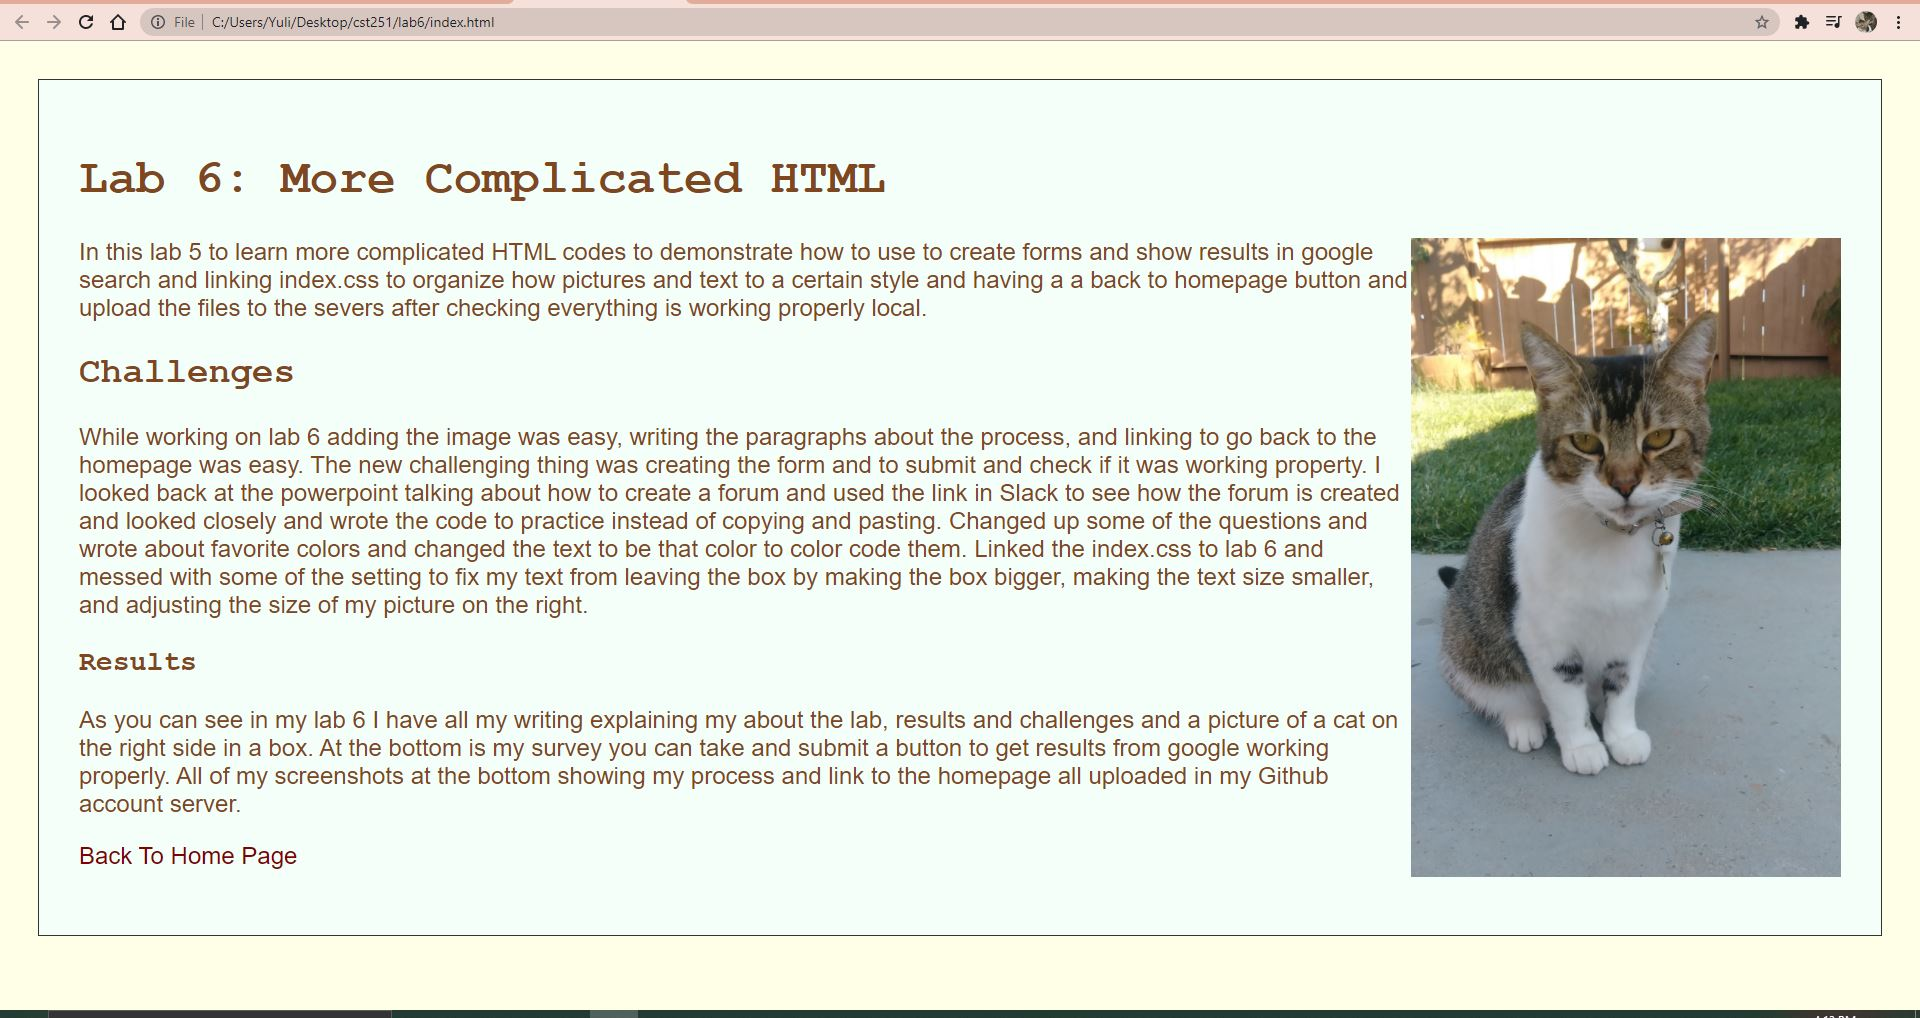
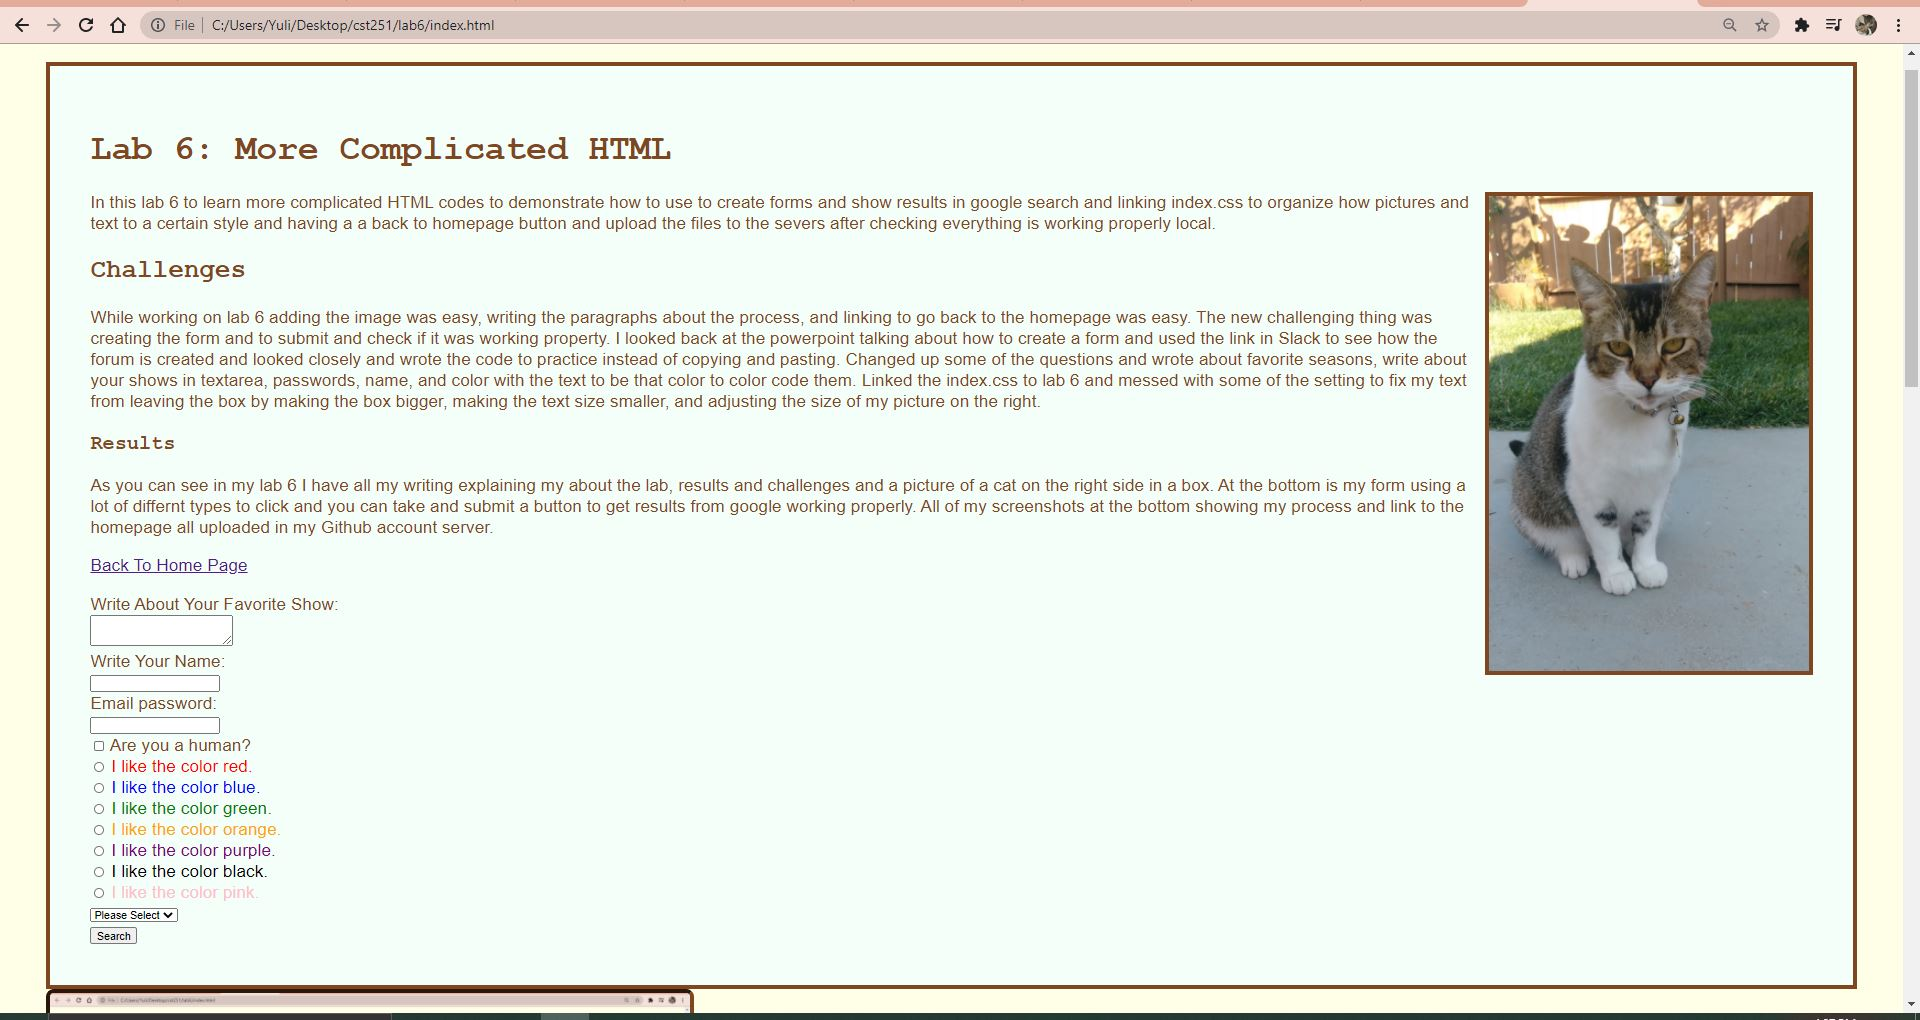
added lab7 and fixed lab 6

Changed region(s): [[0.0, 0.0, 1.0, 1.0]]

diff --git a/lab6/index.html b/lab6/index.html
@@ -6,16 +6,16 @@
 	<link rel="stylesheet" type="text/css" href="css/index.css">
 </head>
 <body>
-		<div id="content">
-			<h1 style="color:#7e4720;">Lab 6: More Complicated HTML</h1>
-			<img src="img/kirby.jpg">
-			<p style="color:#7e4720;">In this lab 6 to learn more complicated HTML codes
+	<div id="content">
+			<h1>Lab 6: More Complicated HTML</h1>
+			<img id="cat" src="img/kirby.jpg">
+			<p>In this lab 6 to learn more complicated HTML codes
 				to demonstrate how to use to create forms and show results in google search
 				and linking index.css to organize how pictures and text to a certain style
 				and having a a back to homepage button and upload the files to the severs
 				after checking everything is working properly local.</p>
-			<h2 style="color:#7e4720;">Challenges</h2>
-			<p style="color:#7e4720;">While working on lab 6 adding the image was easy,
+			<h2>Challenges</h2>
+			<p>While working on lab 6 adding the image was easy,
 				writing the paragraphs about the process, and linking to go back to the
 				homepage was easy.  The new challenging thing was creating the form and
 				to submit and check if it was working property.  I looked back at the
@@ -27,56 +27,57 @@
 				color code them. Linked the index.css to lab 6 and messed with some of the setting
 				to fix my text from leaving the box by making the box bigger, making the text size
 				smaller, and adjusting the size of my picture on the right.</p>
-			<h3 style="color:#7e4720;">Results</h3>
-			<p style="color:#7e4720;">As you can see in my lab 6 I have all my writing
+			<h3>Results</h3>
+			<p>As you can see in my lab 6 I have all my writing
 				explaining my about the lab, results and challenges and a picture of a cat
 				on the right side in a box.  At the bottom is my form using a lot of differnt types to click and you can take and
 				submit a button to get results from google working properly.  All of my
 				screenshots at the bottom showing my process and link to the homepage all
 				uploaded in my Github account server.</p>
 			<p><a href="../index.html">Back To Home Page</a>
-		</div>
 
-	<form action="https://www.google.com/search" method="GET" target="_blank">
-		Write About Your Favorite Show: <br>
- 		<textarea name="write-about-your-favorite-story"></textarea><br>
- 		Write Your Name:<br>
- 		<input type="input" name="q"/><br>
-			Email password:<br>
-		<input type="password" name="email-password"/><br>
- 		<label><input type="checkbox" name="living"/>
-	 		Are you a human?</label><br>
-		<label style="color:red;"><input type="radio" name="color" value="red">
-			I like the color red.</label><br>
-		<label style="color:blue;"><input type="radio" name="color" value="blue">
-			I like the color blue.</label><br>
-		<label style="color:green;"><input type="radio" name="color" value="green">
-			I like the color green.</label><br>
-		<label style="color:orange;"><input type="radio" name="color" value="orange">
-			I like the color orange.</label><br>
-		<label style="color:purple;"><input type="radio" name="color" value="purple">
-			I like the color purple.</label><br>
-		<label style="color:black;"><input type="radio" name="color" value="black">
-			I like the color black.</label><br>
-		<label style="color:pink;"><input type="radio" name="color" value="pink">
-			I like the color pink.</label><br>
-		<select name="h1">
-			<option disabled selected>Please Select</option>
-			<option value="sum">Summer</option>
-			<option vaule="aut">Autumn</option>
-			<option vaule="win">Winter</option>
-			<option vaule="spr">Spring</option>
-		</select><br>
-		<input type="submit" value="Search">
-	</form>
+		<form action="https://www.google.com/search" method="GET" target="_blank">
+			Write About Your Favorite Show: <br>
+	 		<textarea name="write-about-your-favorite-story"></textarea><br>
+	 		Write Your Name:<br>
+	 		<input type="input" name="q"/><br>
+				Email password:<br>
+			<input type="password" name="email-password"/><br>
+	 		<label><input type="checkbox" name="living"/>
+		 		Are you a human?</label><br>
+			<label style="color:red;"><input type="radio" name="color" value="red">
+				I like the color red.</label><br>
+			<label style="color:blue;"><input type="radio" name="color" value="blue">
+				I like the color blue.</label><br>
+			<label style="color:green;"><input type="radio" name="color" value="green">
+				I like the color green.</label><br>
+			<label style="color:orange;"><input type="radio" name="color" value="orange">
+				I like the color orange.</label><br>
+			<label style="color:purple;"><input type="radio" name="color" value="purple">
+				I like the color purple.</label><br>
+			<label style="color:black;"><input type="radio" name="color" value="black">
+				I like the color black.</label><br>
+			<label style="color:pink;"><input type="radio" name="color" value="pink">
+				I like the color pink.</label><br>
+			<select name="h1">
+				<option disabled selected>Please Select</option>
+				<option value="sum">Summer</option>
+				<option vaule="aut">Autumn</option>
+				<option vaule="win">Winter</option>
+				<option vaule="spr">Spring</option>
+			</select><br>
+			<input type="submit" value="Search">
+		</form>
+  </div>
 
-	<img src="img/browser.jpg" width="400px">
-		<figcaption style="color:#7e4720;">Lab 6 HTML File On My Browser</figcaption>
-	<img src="img/lab6codes.jpg" width="300px">
-		<figcaption style="color:#7e4720;">Lab 6 HTML Codes</figcaption>
-	<img src="img/local.jpg" width="400px">
-		<figcaption style="color:#7e4720;">Lab 6 Working On Local</figcaption>
-	<img src="img/lab6sever.jpg" width="400px">
-		<figcaption style="color:#7e4720;">Lab 6 On Severs</figcaption>
+<img id="screenshot" src="img/browser.jpg">
+	<figcaption id="center">Lab 6 HTML File On My Browser</figcaption>
+<img id="screenshot" src="img/lab6codes.jpg">
+	<figcaption id="center">Lab 6 HTML Codes</figcaption>
+<img id="screenshot" src="img/local.jpg">
+	<figcaption id="center">Lab 6 Working On Local</figcaption>
+<img id="screenshot" src="img/lab6sever.jpg">
+	<figcaption id="center">Lab 6 On Severs</figcaption>
+
 </body>
 </html>

diff --git a/lab7/index.html b/lab7/index.html
@@ -1,0 +1,40 @@
+<!DOCTYPE html>
+<html lang="en" dir="ltr">
+  <head>
+    <meta charset="utf-8">
+    <title>Lab 7: Intro To CSS</title>
+    <link rel="stylesheet" type="text/css" href="css/index.css">
+  </head>
+  <body>
+
+    <div id="content">
+		    <h1>Lab 7: Intro To CSS</h1>
+			  <img id="cat" src="img/chi.jpg">
+		    <p>In this lab 7 starting to learn CSS and linking a CSS file to file to use
+          id and class to style my website.</p>
+			<h2>Challenges</h2>
+			<p>The only challenging part of this lab was writing the codes in the css file
+        and knowing what to write to style the website and reloading the page lots
+        of time to see the changes and looking other ways to style it.</p>
+      <h3>Problems</h3>
+      <p>Some problem I had was trying to fix the screenshots to not be applied
+        with same effects.  So I created a new id to stop it from being in the right
+        side and added caption at the bottom and style it. </p>
+			<h4>Results</h4>
+			<p>Currently if you are seeing my page and reading this you can see how the color
+      background is a light blue and my cat image and all my text are inside a light oranage box.
+      Using inspect you can see my codes used and see that I used a index.css to link into my file
+      to style my website to how I want it and saved and tested it local and updated to the severs.</p>
+			<p><a href="../index.html">Back To Home Page</a>
+		</div>
+
+    <img id="screenshot" src="img/lab7codes.jpg">
+      <figcaption id="center">Lab 7 HTML Codes</figcaption>
+    <img id="screenshot" src="img/lab7csscodes.jpg">
+      <figcaption id="center">Lab 7 CSS Codes</figcaption>
+    <img id="screenshot" src="img/lab7local.jpg">
+      <figcaption id="center">Lab 7 Working On Local</figcaption>
+    <img id="screenshot" src="img/lab7sever.jpg">
+      <figcaption id="center">Lab 7 On Severs</figcaption>
+
+</html>

diff --git a/lab7/css/index.css b/lab7/css/index.css
@@ -1,0 +1,49 @@
+body {
+    font-family: "Galada", monospace;
+    background-color: #b3ffff;
+    padding: 70px;
+    font-size: 100%;
+}
+
+div#content {
+    padding: 50px;
+    background-color: #faebd7;
+    border: dashed #e38d1c;
+	color: #006666;
+	border-radius: 50px;
+    height: auto;
+}
+
+h1, h2, h3, h4 {
+    font-family: "Galada", monospace;
+	font-weight: 900;
+}
+
+img#cat {
+    float: right;
+    width: 350px;
+    height: auto;
+	border: outset 15px #e38d1c;
+}
+
+figcaption#center {
+	text-decoration: none;
+	color: #006666;
+	font-weight: 900;
+}
+
+img#screenshot {
+	width: 800px;
+	height: auto;
+	border: inset 15px #e38d1c;
+	border-radius: 10px;
+}
+
+a {
+    text-decoration: none;
+    color:#f28f0d;
+	font-weight: 20px;
+}
+a:hover {
+    text-decoration: underline overline dotted #b3ffff;
+}

diff --git a/lab6/css/index.css b/lab6/css/index.css
@@ -1,27 +1,41 @@
 body {
     font-family: Helvetica, Verdana, Arial, "san serif";
     background-color: #ffffe6;
-    padding: 30px;
+    padding: 50px;
     font-size: 90%;
 }
 
 div#content {
-    padding: 30px;
+    padding: 50px;
     background-color: mintcream;
-    border: solid 1px #333333;
-    height: 80vh;
+    border: solid 5px #7e4720;
+    height: auto;
+	color: #7e4720;
 }
 
 h1, h2, h3 {
     font-family: "Courier New", monospace;
 }
 
-img {
+img#cat {
     float: right;
     width: 400px;
     height: auto;
+	border: solid 5px #7e4720
 }
 
+figcaption#center {
+	text-decoration: none;
+	color: #7e4720;
+	font-weight: 900;
+}
+
+img#screenshot {
+	width: 800px;
+	height: auto;
+	border: inset 5px #7e4720;
+	border-radius: 10px;
+	
 a {
     text-decoration: none;
     color:#7e4720;
